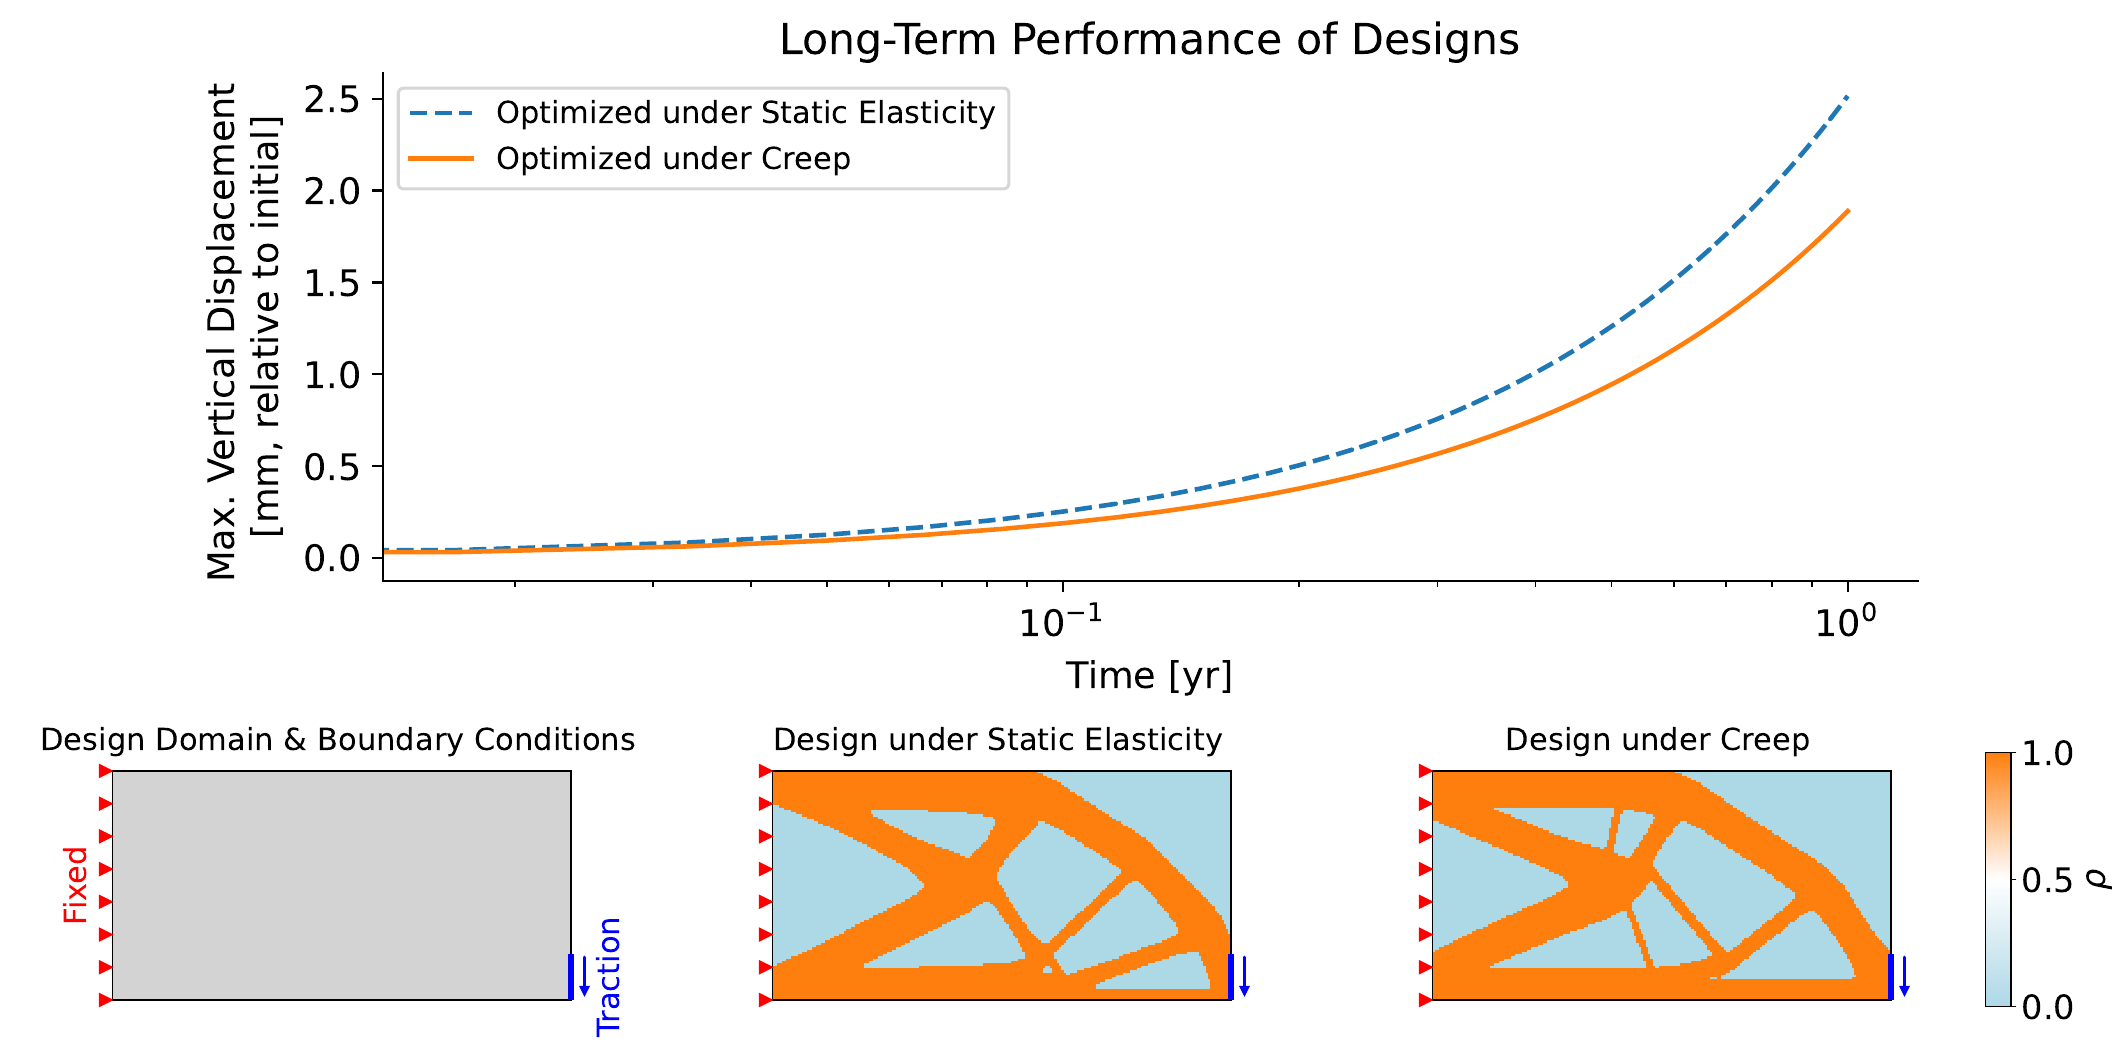
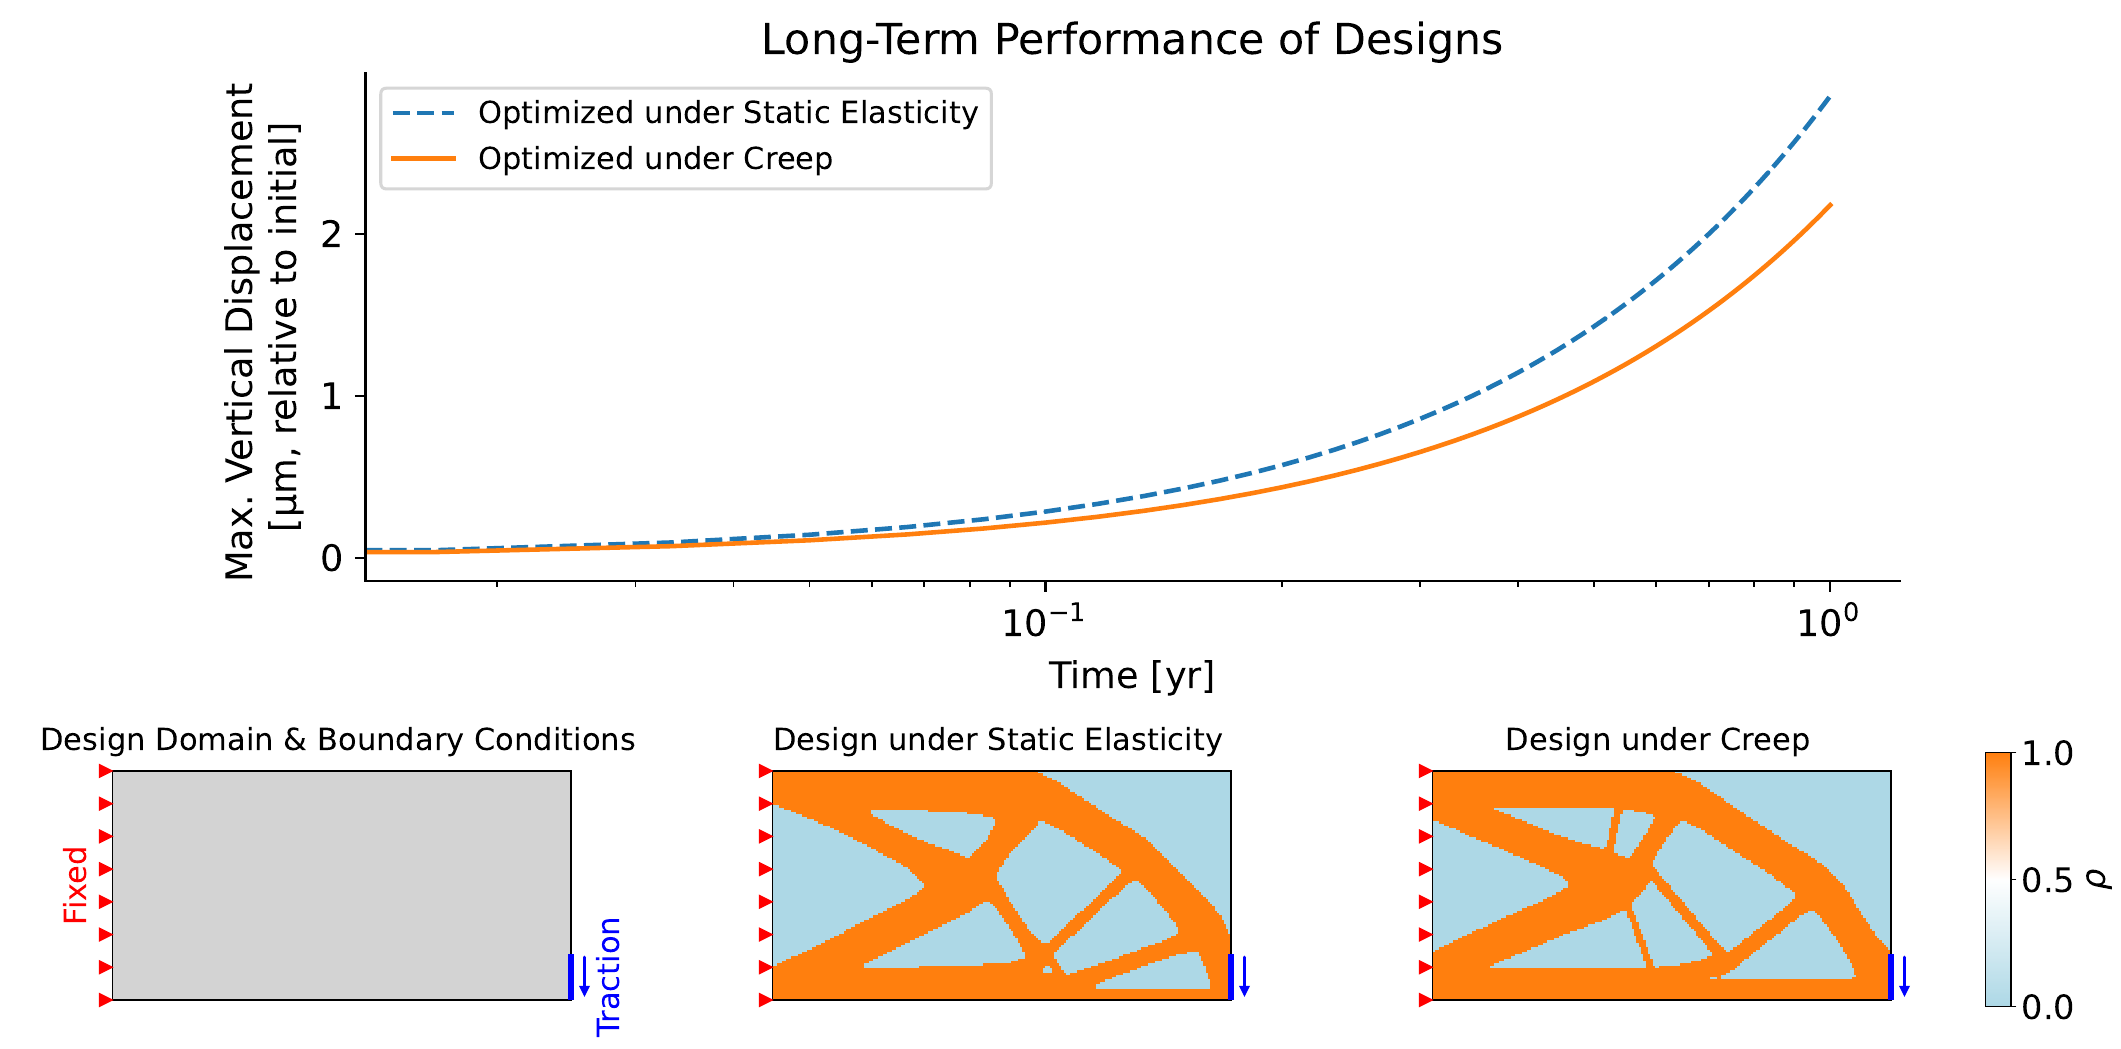
Review fixes: docs, stale files, small cleanups
- README captions and step descriptions match the current results and scripts.
- Optimizer raises on a non-finite objective, constraint or gradient.
- Table model checks the query width; plain comprehension in its builder.
- Sec. 4.3 comparison summary written to a tracked JSON; A1 plot script also
  writes the implicit-scheme errors quoted in the paper, replacing a stale CSV.
- run_all.sh rejects step arguments in GPUS mode; notes on step dependencies.
- Remove unused code in the blade and thermal scripts; round() for folder names;
  docstring figure and table numbers follow the revised paper.
- sync_paper_figures.sh includes the new thermal figure; README image regenerated.

diff --git a/visualization/appendix/plot_A1_abaqus_validation.py b/visualization/appendix/plot_A1_abaqus_validation.py
@@ -1,5 +1,6 @@
 """Appendix B.1, Fig. B1: TOGA vs Abaqus vs closed form for Norton stress relaxation. Writes
-figures/A1_creep_validation.{pdf,png} and results/appendix/A1_abaqus_validation/validation_errors*.csv."""
+figures/A1_creep_validation.{pdf,png} and results/appendix/A1_abaqus_validation/validation_errors_{explicit,implicit}.csv
+(implicit: against the closed form only, as Abaqus integrates creep explicitly here)."""
 from __future__ import annotations
 
 import math
@@ -222,6 +223,29 @@ def rel_dev(a, b, scale=None):
     return np.max(np.abs(a - b)), np.max(np.abs(a - b)) / denom
 
 
+def closed_form_errors(method):
+    """Deviation of the uniaxial case from the closed form, at the Abaqus increment size and at a
+    temporally converged step count."""
+    rows = []
+    for n_steps in (NUM_TIME_STEPS, NUM_TIME_STEPS_REF):
+        try:
+            sig_n, eps_n = load_toga("tension", method, n_steps)
+        except FileNotFoundError:
+            continue
+        s_ex, e_ex = analytic_relaxation(sig_n["time"].to_numpy())
+        a_s, r_s = rel_dev(sig_n["sigma_xx"], s_ex)
+        a_e, r_e = rel_dev(eps_n["creep_strain_xx"], e_ex)
+        rows += [
+            dict(case="tension", method=method, num_time_steps=n_steps,
+                 quantity="sigma_xx", reference="analytical",
+                 max_abs_err=a_s, max_rel_err=r_s),
+            dict(case="tension", method=method, num_time_steps=n_steps,
+                 quantity="creep_strain_xx", reference="analytical",
+                 max_abs_err=a_e, max_rel_err=r_e),
+        ]
+    return rows
+
+
 # --------------------------------------------------------------------------
 # Figure
 # --------------------------------------------------------------------------
@@ -293,27 +317,8 @@ def main(methods=("explicit", "implicit"), stem="A1_creep_validation",
             ax_eps.plot(t_fine, eps_ex, color="k", ls="--", lw=1.6)
             ax_eps.plot(t_fine, -0.5 * eps_ex, color="k", ls="--", lw=1.6)
 
-        if case == "tension":
-            # Deviation from the closed form, at the Abaqus increment size and
-            # at a temporally converged step count.
-            for n_steps in (NUM_TIME_STEPS, NUM_TIME_STEPS_REF):
-                for method in methods:
-                    try:
-                        sig_n, eps_n = load_toga(case, method, n_steps)
-                    except FileNotFoundError:
-                        continue
-                    t_n = sig_n["time"].to_numpy()
-                    s_ex, e_ex = analytic_relaxation(t_n)
-                    a_s, r_s = rel_dev(sig_n["sigma_xx"], s_ex)
-                    a_e, r_e = rel_dev(eps_n["creep_strain_xx"], e_ex)
-                    error_rows += [
-                        dict(case=case, method=method, num_time_steps=n_steps,
-                             quantity="sigma_xx", reference="analytical",
-                             max_abs_err=a_s, max_rel_err=r_s),
-                        dict(case=case, method=method, num_time_steps=n_steps,
-                             quantity="creep_strain_xx", reference="analytical",
-                             max_abs_err=a_e, max_rel_err=r_e),
-                    ]
+            for method in methods:
+                error_rows += closed_form_errors(method)
 
         ax_eps.set_ylabel(r"creep strain $\varepsilon^c$")
         ax_sig.set_ylabel(r"stress $\sigma$ [MPa]")
@@ -371,3 +376,11 @@ def main(methods=("explicit", "implicit"), stem="A1_creep_validation",
 if __name__ == "__main__":
     # Explicit only: Abaqus integrates creep explicitly here, so this is the like-for-like comparison.
     main(methods=("explicit",), stem="A1_creep_validation")
+
+    # The implicit scheme is compared with the closed form only.
+    df = pd.DataFrame(closed_form_errors("implicit"))
+    out = RESULTS / "validation_errors_implicit.csv"
+    df.to_csv(out, index=False)
+    print(f"saved {out}")
+    print()
+    print(df.to_string(index=False))

diff --git a/experiments/5_blade/evaluate_homogeneous_blends.py b/experiments/5_blade/evaluate_homogeneous_blends.py
@@ -1,4 +1,4 @@
-"""Sec. 4.5 (Fig. 8, Table 2): creep compliance of uniform IN625/SS316 blends, IN625 fraction 0.0 ... 1.0.
+"""Sec. 4.5 (Fig. 9, Table 3): creep compliance of uniform IN625/SS316 blends, IN625 fraction 0.0 ... 1.0.
 Writes results/5_blade/data_evaluation_explicit/homo_design_{0,...,10}.pkl."""
 
 #%% Import modules
@@ -22,7 +22,6 @@ jax.config.update("jax_compilation_cache_dir", _cache_dir)
 jax.config.update("jax_persistent_cache_min_compile_time_secs", 0.0)
 
 import jax.numpy as np
-import numpy as onp
 import meshio
 import pickle
 import time
@@ -41,6 +40,7 @@ from toga.utils import clean_data_dir, remove_orphan_nodes
 
 print(f"Clearing old results in {data_dir}...")
 clean_data_dir(data_dir)
+os.makedirs(data_dir, exist_ok=True)
 
 #%% Define materials and properties
 
@@ -99,22 +99,6 @@ problem_T = NonlinearThermal(mesh, vec=1, dim=3, ele_type=ele_type,
 
 # %% Define the Structural FEA boundary conditions
 
-# min by y, then min z, then min x
-node_idx_to_fix_xz = onp.lexsort((mesh.points[:,0],
-                                  mesh.points[:,2],
-                                  mesh.points[:,1]))[0]
-
-# min by y, then max z, then min x
-node_idx_to_fix_x = onp.lexsort(( mesh.points[:,0],
-                                 -mesh.points[:,2],
-                                  mesh.points[:,1]))[0]
-
-def point_xz(point, idx):
-    return np.isin(idx, node_idx_to_fix_xz)
-
-def point_x(point, idx):
-    return np.isin(idx, node_idx_to_fix_x)
-
 def zero_disp(point):
     return 0.
 
@@ -132,8 +116,6 @@ class LoadedThermalCreep(ThermalCreepExplicit):
         def traction(u, x, *internal_vars_surface):
             return -np.array([0., 30., 0.])
         return [traction]
-# creep strain rate ~ proportional to traction magnitude ^ 5 since Norton n is about 5
-# 2x traction magnitude causes roughly 32x creep strain rate
 
 problem_u = LoadedThermalCreep(mesh, vec=3, dim=3, ele_type=ele_type,
                               dirichlet_bc_info=dirichlet_bc_info_u,
@@ -207,13 +189,13 @@ def evaluate_performance(params, *args):
     return f, aux
 
 if __name__ == "__main__":
-    theta = np.ones((len(mesh.cells), len(material_names))) * 0.5 # initial guess: 50% IN625, 50% SS316
+    theta = np.ones((len(mesh.cells), len(material_names))) * 0.5 # shape of the composition field: one column per material
 
     for i in [1.0, 0.9, 0.8, 0.7, 0.6, 0.5, 0.4, 0.3, 0.2, 0.1, 0.0]:
         theta_homo = np.zeros_like(theta)
         theta_homo = theta_homo.at[:,0].set(i)   # IN625
         theta_homo = theta_homo.at[:,1].set(1-i) # SS316
         F, aux = evaluate_performance(theta_homo)
-        with open(os.path.join(data_dir, f'homo_design_{int(i*10)}.pkl'), 'wb') as f:
+        with open(os.path.join(data_dir, f'homo_design_{round(i*10)}.pkl'), 'wb') as f:
             pickle.dump((F, aux), f)
-        print(f"Data successfully saved to {data_dir}/homo_design_{int(i*10)}.pkl")
+        print(f"Data successfully saved to {data_dir}/homo_design_{round(i*10)}.pkl")

diff --git a/experiments/5_blade/optimize_graded_blade.py b/experiments/5_blade/optimize_graded_blade.py
@@ -1,4 +1,4 @@
-"""Sec. 4.5 (Figs. 7-8, Table 2): IN625/SS316 compositional grading of a 3D turbine blade, swept over
+"""Sec. 4.5 (Figs. 8-9, Table 3): IN625/SS316 compositional grading of a 3D turbine blade, swept over
 the IN625 fraction V* = 0.1 ... 0.9. Writes results/5_blade/data_creep_{10,...,90}/.
 
     python optimize_graded_blade.py                              # the sweep of the paper
@@ -112,22 +112,6 @@ def run(vf, thermal_expansion=False):
 
     # %% Define the Structural FEA boundary conditions
 
-    # min by y, then min z, then min x
-    node_idx_to_fix_xz = onp.lexsort((mesh.points[:,0],
-                                    mesh.points[:,2],
-                                    mesh.points[:,1]))[0]
-
-    # min by y, then max z, then min x
-    node_idx_to_fix_x = onp.lexsort(( mesh.points[:,0],
-                                    -mesh.points[:,2],
-                                    mesh.points[:,1]))[0]
-
-    def point_xz(point, idx):
-        return np.isin(idx, node_idx_to_fix_xz)
-
-    def point_x(point, idx):
-        return np.isin(idx, node_idx_to_fix_x)
-
     def zero_disp(point):
         return 0.
 
@@ -144,8 +128,6 @@ def run(vf, thermal_expansion=False):
             def traction(u, x, *internal_vars_surface):
                 return -np.array([0., 30., 0.])
             return [traction]
-    # creep strain rate ~ proportional to traction magnitude ^ 5 since Norton n is about 5
-    # 2x traction magnitude causes roughly 32x creep strain rate
 
     problem_u = LoadedThermalCreep(mesh, vec=3, dim=3, ele_type=ele_type,
                                 dirichlet_bc_info=dirichlet_bc_info_u,

diff --git a/experiments/3_thermal_creep/evaluate_temperature_dependent_properties.py b/experiments/3_thermal_creep/evaluate_temperature_dependent_properties.py
@@ -1,9 +1,9 @@
-"""Sec. 4.3: effect of temperature-dependent E and k on the cold-to-hot design. The design optimized with
+"""Sec. 4.3 (Fig. 6): effect of temperature-dependent E and k on the cold-to-hot design. The design optimized with
 constant properties and the one optimized with E(T), k(T) of IN625 are each analysed once under both
 property models, and their density and temperature fields are compared.
 Each design is analysed as its optimizer analysed it: stored design variables -> density filter -> solver.
 Reads results/3_thermal_creep/data_creep_cold_hot{,_tdep}_0.3_flex/, writes
-results/3_thermal_creep/data_evaluation_tdep/comparison.json."""
+results/3_thermal_creep/tdep_comparison.json."""
 
 #%% Import modules
 
@@ -146,7 +146,7 @@ def load_filtered_density(run_name, ft):
     run_dir = ROOT / "results" / "3_thermal_creep" / run_name
     geom = meshio.read(max((run_dir / 'vtk').glob('sol_*.vtu'))).cell_data['geom'][0] # raw design variables
     rho = applyDensityFilter(ft, np.asarray(geom, dtype=np.float64).reshape(-1, 1)).reshape(-1)
-    J_final = float(open(run_dir / 'history.csv').read().split('\n')[-2].split(',')[1])
+    J_final = float(onp.genfromtxt(run_dir / 'history.csv', delimiter=',', names=True)['J'][-1])
     return rho, J_final
 
 def region_means(rho, x):
@@ -212,5 +212,5 @@ if __name__ == "__main__":
     out['E_MPa']['constant_model'] = 160e3
 
     print(json.dumps(out, indent=2))
-    with open(os.path.join(data_dir, 'comparison.json'), 'w') as f:
+    with open(ROOT / "results" / "3_thermal_creep" / "tdep_comparison.json", 'w') as f:
         json.dump(out, f, indent=2)

diff --git a/experiments/3_thermal_creep/optimize_thermal_boundary_conditions.py b/experiments/3_thermal_creep/optimize_thermal_boundary_conditions.py
@@ -1,9 +1,10 @@
-"""Sec. 4.3 (Fig. 5): thermo-structural creep optimization at V* = 0.3 under cold, hot and cold-to-hot
+"""Sec. 4.3 (Figs. 5-6): thermo-structural creep optimization at V* = 0.3 under cold, hot and cold-to-hot
 temperature boundary conditions. Writes results/3_thermal_creep/data_creep_{cold,hot,cold_hot}_0.3_flex/.
 
-    python optimize_thermal_boundary_conditions.py                         # the three cases of the paper
+    python optimize_thermal_boundary_conditions.py                         # the three cases of Fig. 5
     python optimize_thermal_boundary_conditions.py --temperature-dependent # the cold-to-hot case alone with
-                                                                           # E(T) and k(T) of IN625, written to
+                                                                           # E(T) and k(T) of IN625 (Fig. 6),
+                                                                           # written to
                                                                            # data_creep_cold_hot_tdep_0.3_flex/
 """
 
@@ -210,7 +211,6 @@ def run(cold_temp, hot_temp, vf, case_name=None, temperature_dependent=False):
         aux['u_full'] = u_full
         aux['body_params'] = body_params
         aux['temperature'] = temperature
-        aux['reference_temperature'] = cold_temp
 
         evaluate_performance.counter += 1
         return f, (f, aux)

diff --git a/toga/opt/_optimizer.py b/toga/opt/_optimizer.py
@@ -68,6 +68,7 @@ class Optimizer:
         Shapes are normalized so optimizer code can rely on canonical layouts:
         J scalar, dJ (N,), vc (m,), dvc (m, N). On the first call, ``m`` is
         inferred from the size of ``vc`` and ``lambda_map`` is built.
+        Raises FloatingPointError if any of the values is NaN or infinite.
         """
         vc_flat = np.asarray(vc, dtype=float).reshape(-1)
         if self.m is None:
@@ -79,6 +80,11 @@ class Optimizer:
         self._dJ = np.asarray(dJ, dtype=float).reshape(-1)
         self._vc = vc_flat
         self._dvc = np.asarray(dvc, dtype=float).reshape(self.m, self.N)
+        for name, value in (("objective", self._J), ("objective gradient", self._dJ),
+                            ("constraints", self._vc), ("constraint gradients", self._dvc)):
+            if not np.all(np.isfinite(value)):
+                raise FloatingPointError(
+                    f"Non-finite {name} passed to the optimizer at iteration {self.iteration}.")
         self._x_at_eval = self.desvars.copy()
 
     def _g_at(self, x):

diff --git a/experiments/2_pareto_vf/optimize_volume_fraction_sweep.py b/experiments/2_pareto_vf/optimize_volume_fraction_sweep.py
@@ -18,7 +18,7 @@ def run(vf, init_from=None):
     os.environ.setdefault("JAX_USE_SIMPLIFIED_JAXPR_CONSTANTS", "1")
     os.environ.setdefault("XLA_PYTHON_CLIENT_PREALLOCATE", "false")
     ROOT = Path(__file__).resolve().parents[2] # repository root
-    data_dir = str(ROOT / "results" / "2_pareto_vf" / f'data_creep_{int(vf*100)}')
+    data_dir = str(ROOT / "results" / "2_pareto_vf" / f'data_creep_{round(vf*100)}')
 
     import jax
     jax.config.update("jax_enable_x64", True)
@@ -215,7 +215,7 @@ def run(vf, init_from=None):
     if init_from is None:
         theta_ini = np.ones((len(mesh.cells), 1))
     else: # continuation: start from the final design of the run at volume fraction init_from
-        vtk_dir = ROOT / "results" / "2_pareto_vf" / f'data_creep_{int(init_from*100)}' / "vtk"
+        vtk_dir = ROOT / "results" / "2_pareto_vf" / f'data_creep_{round(init_from*100)}' / "vtk"
         design = meshio.read(sorted(vtk_dir.glob("sol_*.vtu"))[-1]).cell_data["geom"][0]
         theta_ini = np.asarray(design, dtype=float).reshape(-1, 1)
 

diff --git a/toga/mat/material_properties.py b/toga/mat/material_properties.py
@@ -104,9 +104,8 @@ def _build_property_model(property_name, material_names, config, data_dir=None):
         tables = _load_material_tables(material_names, property_name, data_dir)
         if not temperature_dependent:
             tables = [
-                (temperatures[:1], jnp.atleast_1d(_constant_property_value(table, property_name, name)))
-                for table, name in zip(tables, material_names)
-                for temperatures in [table[0]]
+                (t[:1], jnp.atleast_1d(_constant_property_value((t, v), property_name, name)))
+                for (t, v), name in zip(tables, material_names)
             ]
         return TableModel(tables, temperature_dependent=temperature_dependent)
 

diff --git a/experiments/1_creep_elastic/aggregate_creep_measures.py b/experiments/1_creep_elastic/aggregate_creep_measures.py
@@ -1,4 +1,4 @@
-"""Sec. 4.1: aggregate creep measures of the elastic and creep-aware V* = 0.5 designs, and the
+"""Sec. 4.1 (Table 1): aggregate creep measures of the elastic and creep-aware V* = 0.5 designs, and the
 energy balance of the dead load, J = D + dU, that links creep compliance to creep dissipation.
 Each design is analysed on its filtered density. Plane stress, thickness 1 mm; energies in mJ.
 Writes results/1_creep_elastic/creep_measures.csv."""
@@ -18,7 +18,6 @@ import jax
 jax.config.update("jax_enable_x64", True)
 
 import jax.numpy as np
-import numpy as onp
 import meshio
 
 from toga.mat import build_material_properties

diff --git a/toga/mat/table_model.py b/toga/mat/table_model.py
@@ -24,6 +24,8 @@ class TableModel:
         returns: (M,) or scalar
         """
         x_query = jnp.asarray(x_query)
+        if x_query.shape[-1] != self.input_dim:
+            raise ValueError(f"x_query has last axis of length {x_query.shape[-1]}, expected {self.input_dim}.")
         n_materials = len(self.tables)
         fractions = x_query[..., :n_materials]
         if self.temperature_dependent:

diff --git a/experiments/4_load_magnitude/optimize_load_magnitude_sweep.py b/experiments/4_load_magnitude/optimize_load_magnitude_sweep.py
@@ -1,4 +1,4 @@
-"""Sec. 4.4 (Fig. 6): creep optimization at traction magnitudes 100, 200 and 400 MPa.
+"""Sec. 4.4 (Fig. 7): creep optimization at traction magnitudes 100, 200 and 400 MPa.
 Writes results/4_load_magnitude/data_creep_1.0_{100.0,200.0,400.0}_0.5/."""
 
 def run(service_life, bc_magnitude, vf):

diff --git a/experiments/1_creep_elastic/evaluate_designs_under_creep.py b/experiments/1_creep_elastic/evaluate_designs_under_creep.py
@@ -40,6 +40,7 @@ from toga.utils import clean_data_dir
 
 print(f"Clearing old results in {data_dir}...")
 clean_data_dir(data_dir)
+os.makedirs(data_dir, exist_ok=True)
 
 #%% Define materials and properties
 
